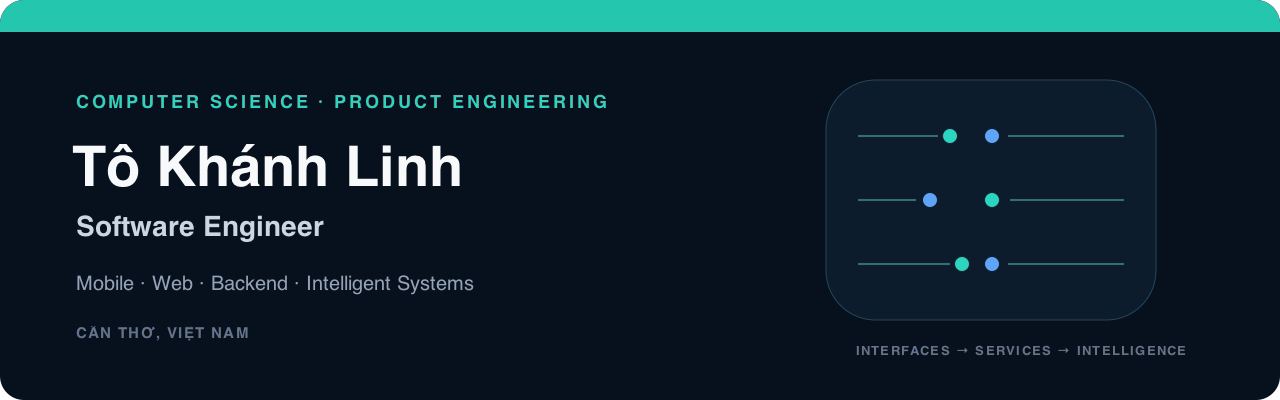
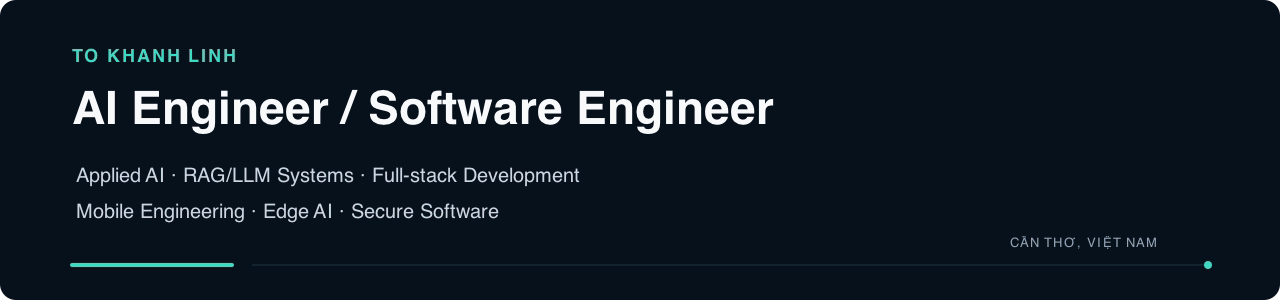
docs(profile): refine professional GitHub overview

diff --git a/README.md b/README.md
@@ -1,144 +1,126 @@
 <picture>
+  <source media="(prefers-color-scheme: dark) and (max-width: 600px)" srcset="./assets/profile-header-mobile-dark.png">
+  <source media="(prefers-color-scheme: light) and (max-width: 600px)" srcset="./assets/profile-header-mobile-light.png">
   <source media="(prefers-color-scheme: dark)" srcset="./assets/profile-header-dark.png">
   <source media="(prefers-color-scheme: light)" srcset="./assets/profile-header-light.png">
-  <img alt="Tô Khánh Linh — Software Engineer building mobile, web, backend, AI/RAG, IoT, and blockchain systems" src="./assets/profile-header-light.png" width="100%">
+  <img alt="Tô Khánh Linh — AI Engineer and Software Engineer focused on applied AI, RAG systems, full-stack development, mobile, and edge AI" src="./assets/profile-header-light.png" width="100%">
 </picture>
 
 <p align="center">
   <a href="https://khanh-linh-portfolio.vercel.app/"><strong>Portfolio</strong></a>
   &nbsp;·&nbsp;
-  <a href="https://fartamarket.company"><strong>Farta Market</strong></a>
+  <a href="https://github.com/khanhlinhcode"><strong>GitHub</strong></a>
   &nbsp;·&nbsp;
-  <a href="https://nlp-academic-search.streamlit.app/"><strong>RAG Demo</strong></a>
+  <a href="https://nlp-academic-search-api.onrender.com/docs"><strong>RAG API</strong></a>
+  &nbsp;·&nbsp;
+  <a href="https://fartamarket.company"><strong>Commerce demo</strong></a>
 </p>
 
-## Engineering profile
+## Engineering overview
 
-I am a Computer Science engineer who builds complete software systems—from mobile
-and web interfaces to secure APIs, retrieval pipelines, edge devices, and
-blockchain-backed verification. I care about clear architecture, explicit
-contracts, security boundaries, accessibility, and evidence that the software
-actually works.
+I build evidence-grounded AI applications and the software systems around them:
+retrieval pipelines, APIs, web and mobile products, and edge integrations. My
+work favors explicit contracts, security boundaries, reproducible tests, and
+honest failure states over unsupported claims.
 
-Based in **Cần Thơ, Việt Nam** and open to **Mobile Developer** and
-**Full-stack Software Engineer** opportunities.
+Computer Science Engineer based in Cần Thơ, Việt Nam, open to AI Engineering,
+Mobile, and Software Engineering opportunities.
 
-## What I work with
+## Technical capabilities
 
-**Mobile**<br>
-`Flutter` `Dart` `Riverpod` `Dio` `iOS` `Android` `SQLite` `Secure Storage`
+- **AI Engineering** — Python, PyTorch, FastAPI, NLP, hybrid retrieval, vector
+  search, Retrieval-Augmented Generation, semantic claim verification, and
+  recommendation systems.
+- **Backend & system design** — Laravel, PHP, Node.js, NestJS, TypeScript, REST
+  APIs, authentication, authorization, idempotency, rate limiting, and
+  transactional data integrity.
+- **Frontend & mobile** — React, Next.js, TypeScript, Vite, Flutter, Dart,
+  Riverpod, accessible interfaces, and client-side state management.
+- **Data & infrastructure** — MySQL, PostgreSQL, MongoDB, Redis, Qdrant, Docker,
+  Linux, GitHub Actions, and automated browser/API testing.
+- **Edge AI & IoT** — Raspberry Pi, ESP32, MediaPipe, OpenCV, MQTT, PlatformIO,
+  Firebase, and embedded C++ integration.
+- **Blockchain integration** — Solidity, Hardhat, ethers.js, IPFS, QR-based
+  verification, and smart-contract-backed state.
 
-**Frontend**<br>
-`React` `Next.js` `TypeScript` `JavaScript` `Vite` `Redux Toolkit`
-`TanStack Query` `SCSS` `Tailwind CSS` `Accessibility`
+## Featured engineering projects
 
-**Backend & APIs**<br>
-`Laravel` `PHP` `Node.js` `NestJS` `FastAPI` `REST` `Sanctum` `MFA`
-`Rate Limiting` `Idempotency`
+### [NLP Academic Search & RAG Engine](https://github.com/khanhlinhcode/NLP-Academic-Search-RAG-Engine)
 
-**AI, Machine Learning & RAG**<br>
-`Python` `PyTorch` `scikit-learn` `Qdrant` `BM25` `Dense Retrieval` `RRF`
-`Semantic Verification` `Recommendation Systems` `NLP`
+Hybrid academic search and grounded question answering over research-paper
+metadata. The system combines lexical and dense retrieval, streams answers over
+SSE, validates citations, and maps factual claims back to retrieved evidence.
 
-**IoT & Edge Computing**<br>
-`Raspberry Pi` `ESP32` `MediaPipe` `OpenCV` `MQTT` `PlatformIO` `Firebase`
-`Embedded C++`
+`Python` `FastAPI` `Qdrant` `BM25` `RRF` `Streamlit` ·
+[API documentation](https://nlp-academic-search-api.onrender.com/docs)
 
-**Blockchain**<br>
-`Solidity` `Hardhat` `ethers.js` `IPFS` `MetaMask` `Smart Contracts`
+**Status:** research/demo system; semantic verification reduces grounding risk
+but does not guarantee factual correctness.
 
-**Data, infrastructure & quality**<br>
-`MySQL` `PostgreSQL` `MongoDB` `Redis` `Docker` `Linux` `GitHub Actions`
-`Vitest` `Playwright` `Pytest` `Flutter Test`
+### Farta commerce ecosystem
 
-## Selected systems
+A multi-client commerce system covering a Flutter customer app, React
+storefront, administration portal, and server-authoritative APIs. The work
+includes Sanctum authentication, capability authorization, inventory controls,
+idempotent checkout, COD/SePay boundaries, and automated browser tests.
 
-### Farta commerce platform
+[Mobile](https://github.com/khanhlinhcode/Farta_Mobile) ·
+[Storefront](https://github.com/khanhlinhcode/Farta_Market) ·
+[Laravel API](https://github.com/khanhlinhcode/BE_Farta-Market-) ·
+[TypeScript system](https://github.com/khanhlinhcode/farta-commerce) ·
+[Demo](https://fartamarket.company)
 
-An end-to-end commerce ecosystem spanning a Flutter customer app, an accessible
-React storefront, and a Laravel API. The implementation covers authentication,
-catalog, cart, COD/SePay checkout, order tracking, capability authorization,
-idempotency, inventory controls, and privacy-aware network logging.
+`Flutter` `React` `Laravel` `TypeScript` `MySQL` `Playwright`
 
-[`Mobile`](https://github.com/khanhlinhcode/Farta_Mobile) ·
-[`Storefront`](https://github.com/khanhlinhcode/Farta_Market) ·
-[`Laravel API`](https://github.com/khanhlinhcode/BE_Farta-Market-) ·
-[`TypeScript commerce system`](https://github.com/khanhlinhcode/farta-commerce)
+**Status:** staging/demo; real SePay Test Mode validation remains a release gate.
 
-**Core stack:** `Flutter` `React` `Laravel` `Sanctum` `MySQL` `Playwright`
+### [Drowsiness Detection & Edge AI](https://github.com/khanhlinhcode/Drowsy_IOT)
 
-### Semantically verified academic RAG
+An edge-computing system where a Raspberry Pi processes camera input with
+MediaPipe and OpenCV, publishes driver state over MQTT to an ESP32 alert device,
+and exposes monitoring data to a Flutter application.
 
-A hybrid academic search and RAG system that combines lexical and dense
-retrieval, streams grounded answers, validates citations, maps claims to
-evidence, and fails closed when verification cannot support the response.
+`Raspberry Pi` `ESP32` `MediaPipe` `OpenCV` `MQTT` `Flutter`
 
-[`Source`](https://github.com/khanhlinhcode/NLP-Academic-Search-RAG-Engine) ·
-[`Live demo`](https://nlp-academic-search.streamlit.app/) ·
-[`API documentation`](https://nlp-academic-search-api.onrender.com/docs)
+### [CertChain](https://github.com/khanhlinhcode/BlockChain)
 
-**Core stack:** `Python` `FastAPI` `Qdrant` `BM25` `RRF` `Streamlit`
+Certificate issuance, revocation, and public verification backed by a Solidity
+registry. The application connects QR verification, IPFS document storage,
+MongoDB metadata, and Next.js administration workflows.
 
-### Edge-AI drowsiness detection
+`Next.js` `TypeScript` `Node.js` `Solidity` `Hardhat` `IPFS` `MongoDB`
 
-An IoT system where a Raspberry Pi processes camera input with MediaPipe and
-OpenCV, sends real-time state through MQTT to an ESP32 alert device, and exposes
-status and history to a Flutter monitoring application.
-
-[`Source`](https://github.com/khanhlinhcode/Drowsy_IOT)
-
-**Core stack:** `Raspberry Pi` `ESP32` `MediaPipe` `OpenCV` `MQTT` `Flutter`
-
-### CertChain
-
-A certificate issuance, revocation, and public verification system. Critical
-certificate state is anchored in a Solidity smart contract, while the product
-layer provides QR verification, IPFS document storage, and administrative
-workflows.
-
-[`Source`](https://github.com/khanhlinhcode/BlockChain)
-
-**Core stack:** `Next.js` `TypeScript` `Node.js` `Solidity` `Hardhat` `IPFS`
-`MongoDB`
-
-### Recommendation systems
-
-A full-stack book recommendation environment for comparing User-CF, Item-CF,
-matrix factorization, content-based retrieval, and weighted hybrid models—with
-evaluation tooling, a FastAPI service, and a React interface.
-
-[`Source`](https://github.com/khanhlinhcode/HTGY)
-
-**Core stack:** `Python` `scikit-learn` `FastAPI` `React` `SQLAlchemy`
-`Playwright`
-
-### TinyVietLM
+### [TinyVietLM](https://github.com/khanhlinhcode/TinyVietLM)
 
 A reproducible research foundation for a small Vietnamese decoder-only language
-model. The current scope covers audited corpus preparation, deterministic data
-artifacts, Byte-Level BPE tooling, portable compute checks, and explicit human
-approval gates; model training is intentionally not claimed as complete.
+model, including corpus governance, deterministic data artifacts, Byte-Level BPE
+tooling, portable compute checks, and human approval gates.
 
-[`Source`](https://github.com/khanhlinhcode/TinyVietLM)
+`Python` `PyTorch` `Byte-Level BPE` `Data provenance` `CI`
 
-**Core stack:** `Python` `PyTorch` `Byte-Level BPE` `MLOps` `Data Provenance`
+**Status:** paused, approval-gated research; no language model has been trained.
 
-## Engineering principles
+### [Book Recommendation System](https://github.com/khanhlinhcode/HTGY)
 
-- **Build across boundaries.** Product UI, API contracts, persistence, security,
-  and deployment should form one coherent system.
-- **Keep the server authoritative.** Money, inventory, permissions, payment
-  state, and idempotency belong at trusted boundaries.
-- **Make AI evidence-aware.** Retrieval provenance, citation validation, and
-  honest refusal matter more than confident-looking output.
-- **Design for failure.** Offline states, retries, stale responses, partial
-  availability, and abuse controls are part of the product—not afterthoughts.
-- **Verify before claiming.** Tests, builds, runtime evidence, and explicit
-  limitations are part of delivery.
+A full-stack environment for comparing collaborative filtering, matrix
+factorization, content-based retrieval, and weighted hybrid recommendations,
+with offline evaluation, a FastAPI service, and a tested React interface.
 
-## Current direction
+`Python` `scikit-learn` `FastAPI` `React` `SQLAlchemy` `Playwright`
 
-I am currently deepening my work in Flutter product engineering, secure
-transactional systems, retrieval quality, and edge-to-cloud software. For
-collaboration or opportunities, visit
-[khanh-linh-portfolio.vercel.app](https://khanh-linh-portfolio.vercel.app/).
+## Engineering approach
+
+- Ground AI output in traceable evidence and expose uncertainty honestly.
+- Keep API contracts, authorization, money, inventory, and payment state at
+  trusted server boundaries.
+- Design retries, offline states, stale responses, and abuse controls as normal
+  operating conditions.
+- Treat tests, observability, data provenance, and release limitations as part
+  of the implementation.
+
+## Connect
+
+[Portfolio](https://khanh-linh-portfolio.vercel.app/) ·
+[GitHub](https://github.com/khanhlinhcode)
+
+Professional contact details are available through the portfolio.
